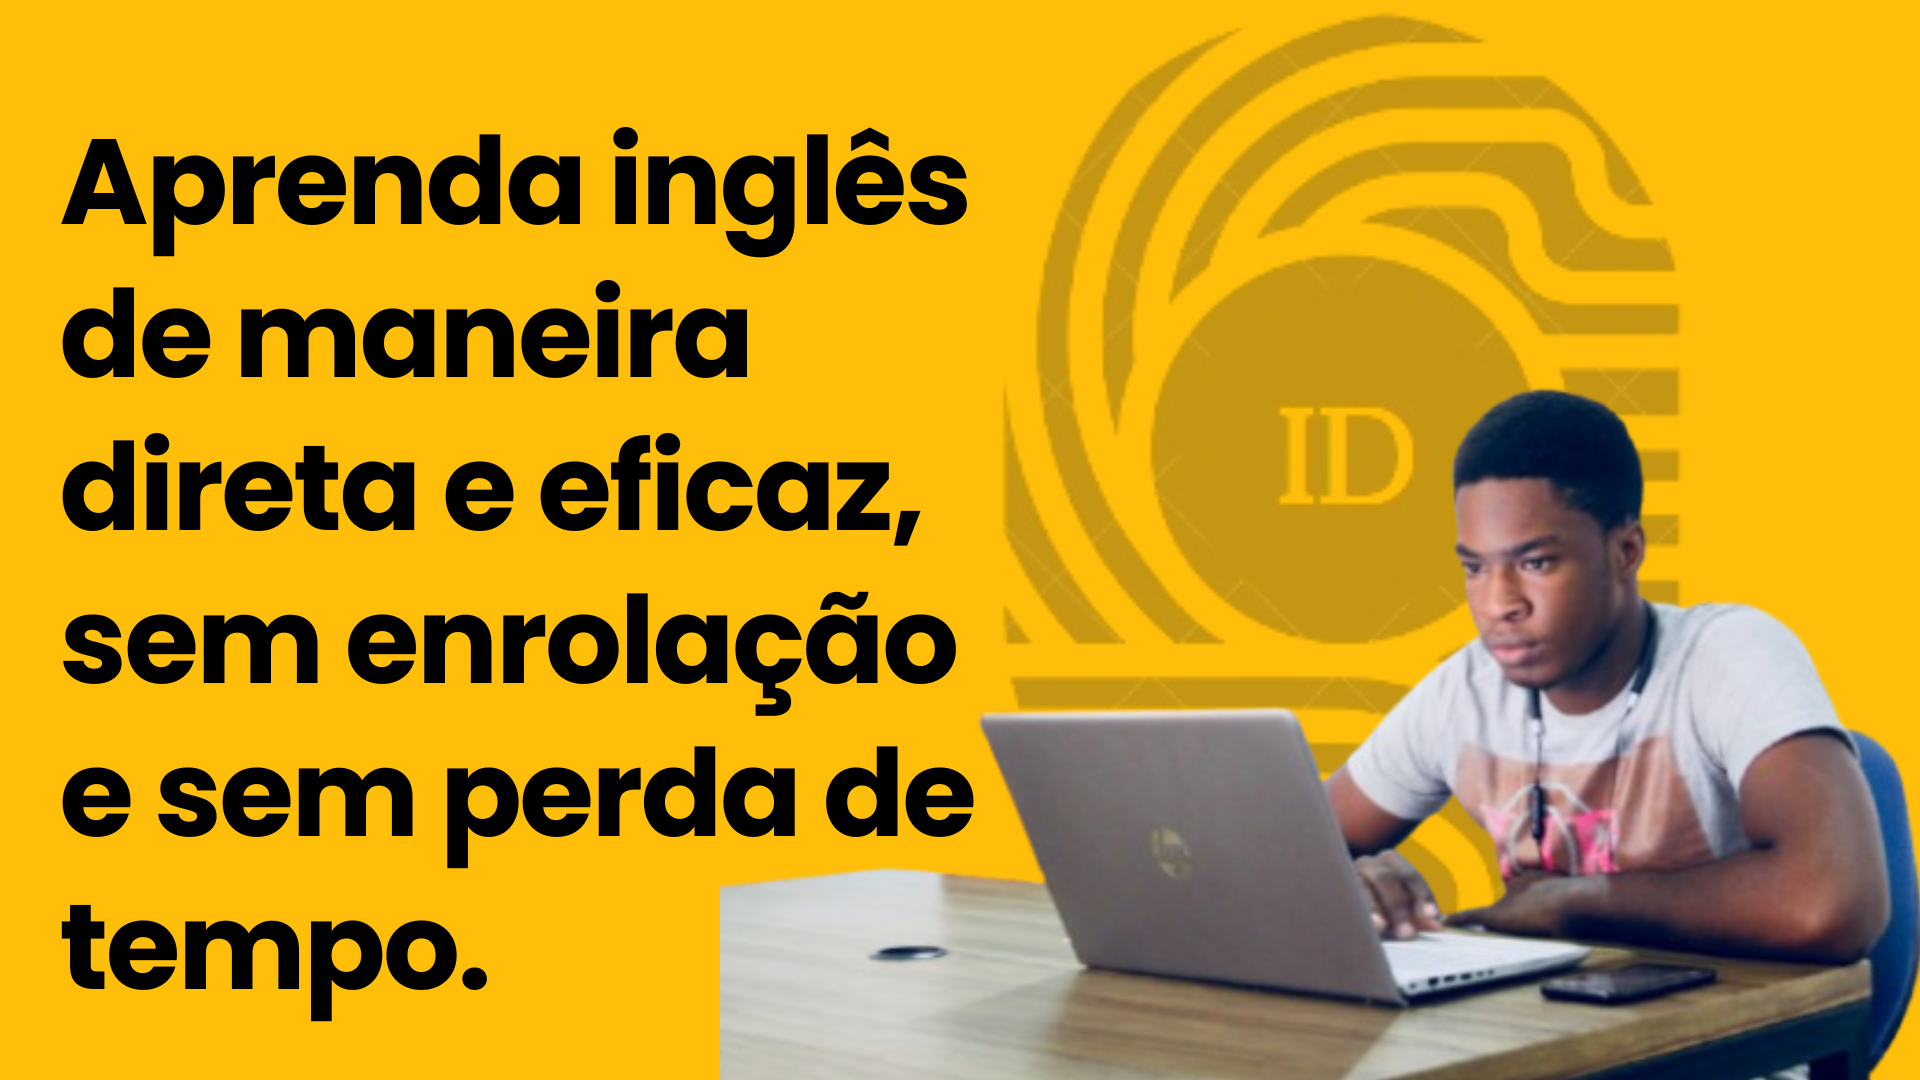
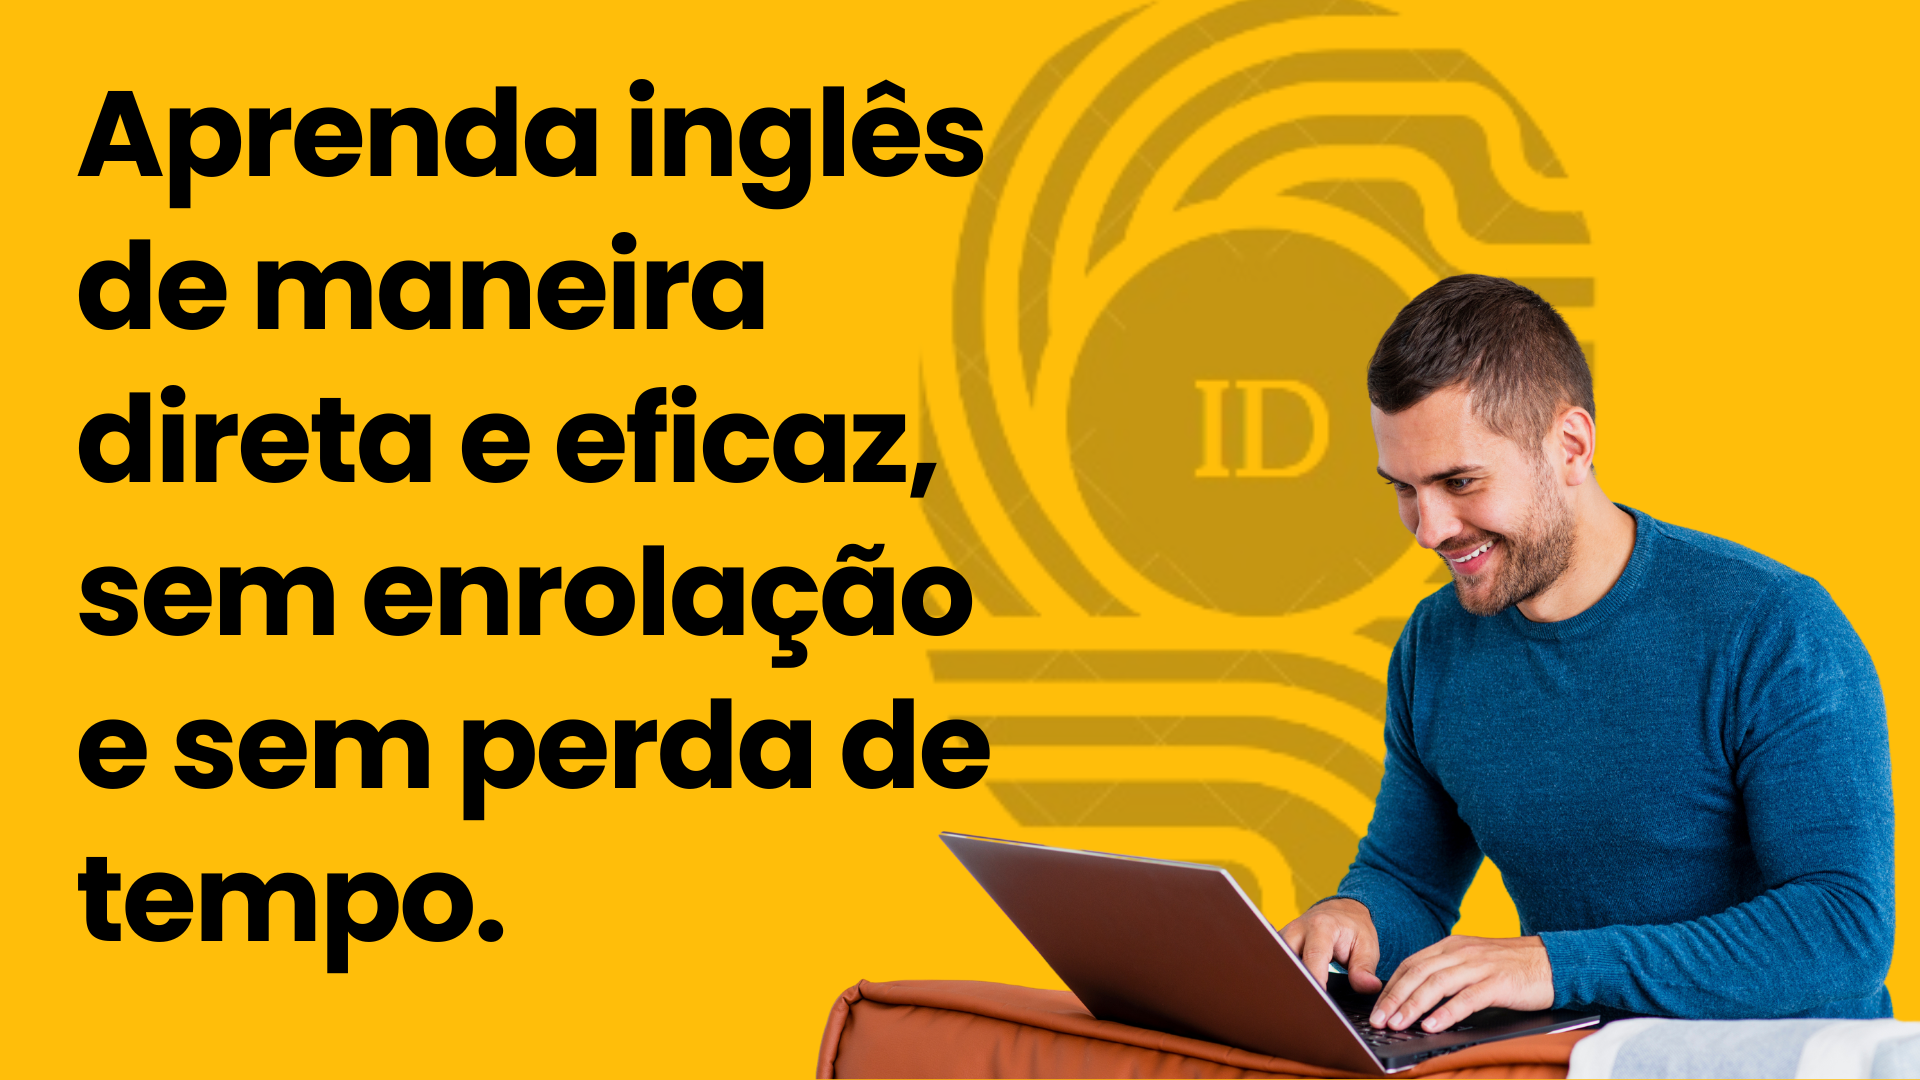
Update MVP

diff --git a/src/assets/css/style.css b/src/assets/css/style.css
@@ -17,19 +17,32 @@ body {
 /* IMAGEM HEADER */
 
 .hero-section {
-    height: 80vh;
-    background-image: linear-gradient(rgba(0, 0, 0, 0.5), rgba(0, 0, 0, 0.5)), url('../img/hero.jpg');
-    background-size: cover;
-    background-position: center;
+    height: 90vh;
+    width: 100%;
     display: flex;
-    align-items: center;
     justify-content: center;
-    text-align: center;
-    color: white;
+    align-items: center;
+    overflow: hidden;
+    position: relative;
+    background-color: #ffbe0a;
 }
 
 .hero-content {
-    padding: 20px;
+    width: 100%;
+    height: 100%;
+    display: flex;
+    justify-content: center;
+    align-items: center;
+    padding: 0;
+}
+
+.hero-content img {
+    max-width: 100%;
+    max-height: 90vh;
+    width: auto;
+    height: auto;
+    object-fit: fill;
+    object-position: center;
 }
 
 .hero-content h1 {
@@ -42,12 +55,24 @@ body {
 }
 
 @media (max-width: 768px) {
+    .hero-section {
+        height: auto;
+        min-height: 70vh;
+        padding: 20px 0;
+        object-fit: cover;
+    } 
+
     .hero-content h1 {
         font-size: 2.5rem;
     }
     
     .hero-content p {
         font-size: 1.2rem;
+    }
+
+    .hero-content img {
+        max-height: 70vh;
+        width: 100%;
     }
 }
 
@@ -100,15 +125,15 @@ body {
 .nav-links {
     display: flex;
     gap: 2rem;
+    align-items: center;
+    justify-content: center;
     list-style: none;
 }
 
 .nav-links a {
     color: #fff;
     text-decoration: none;
-    display: flex;
-    align-items: center;
-    gap: 0.5rem;
+    padding: 0.5rem 1rem;
     transition: color 0.3s ease;
 }
 
@@ -161,11 +186,9 @@ body {
         position: absolute;
         top: 100%;
         left: 0;
-        right: 0;
+        width: 100%;
         background-color: #101820;
-        padding: 1rem;
-        flex-direction: column;
-        text-align: center;
+        padding: 1rem 0;
     }
 
     .nav-links.active {
@@ -174,6 +197,10 @@ body {
 
     .nav-links li {
         margin: 1rem 0;
+    }
+
+    .nav-container {
+        justify-content: space-between;
     }
 }
 /* FIM HEADER */
@@ -359,8 +386,113 @@ form button:hover {
 }
 
 .form-section {
-    padding: 60px 20px;
     background-color: #fff;
+    padding: 60px 20px;
+}
+
+.landing-form {
+    max-width: 500px;
+    margin: 0 auto;
+    padding: 40px;
+    background: #fff;
+    border-radius: 15px;
+    box-shadow: 0 10px 30px rgba(0,0,0,0.1);
+}
+
+.form-header {
+    text-align: center;
+    margin-bottom: 30px;
+}
+
+.form-icon {
+    font-size: 40px;
+    color: #ffbe0a;
+    margin-bottom: 15px;
+}
+
+.landing-form h2 {
+    color: #101820;
+    font-size: 28px;
+    margin-bottom: 10px;
+}
+
+.form-subtitle {
+    color: #666;
+    font-size: 16px;
+    margin-bottom: 25px;
+}
+
+.form-group {
+    margin-bottom: 20px;
+}
+
+.landing-form label {
+    display: block;
+    margin-bottom: 8px;
+    color: #101820;
+    font-weight: bold;
+}
+
+.landing-form input {
+    width: 100%;
+    padding: 12px 15px;
+    border: 2px solid #eee;
+    border-radius: 8px;
+    font-size: 16px;
+    transition: all 0.3s ease;
+}
+
+.landing-form input:focus {
+    border-color: #ffbe0a;
+    outline: none;
+    box-shadow: 0 0 0 3px rgba(255,190,10,0.2);
+}
+
+@keyframes pulse {
+    0% {
+        transform: scale(1);
+        box-shadow: 0 0 0 0 rgba(255, 190, 10, 0.4);
+    }
+    70% {
+        transform: scale(1.02);
+        box-shadow: 0 0 0 10px rgba(255, 190, 10, 0);
+    }
+    100% {
+        transform: scale(1);
+        box-shadow: 0 0 0 0 rgba(255, 190, 10, 0);
+    }
+}
+
+.landing-form button {
+    width: 100%;
+    padding: 15px;
+    background: #ffbe0a;
+    color: #101820;
+    border: none;
+    border-radius: 8px;
+    font-size: 16px;
+    font-weight: bold;
+    cursor: pointer;
+    transition: all 0.3s ease;
+    display: flex;
+    align-items: center;
+    justify-content: center;
+    gap: 10px;
+    position: relative;
+    overflow: hidden;
+    animation: pulse 2s infinite;
+}
+
+.landing-form button:hover {
+    background: #101820;
+    color: #ffbe0a;
+    transform: translateY(-3px) scale(1.02);
+    box-shadow: 0 7px 20px rgba(255, 190, 10, 0.3);
+}
+
+.landing-form button:active {
+    transform: translateY(-1px);
+    box-shadow: 0 5px 15px rgba(255, 190, 10, 0.2);
 }
 
 .landing-form {
@@ -408,7 +540,8 @@ form button:hover {
 }
 
 .landing-form button:hover {
-    background-color: #e5aa09;
+    background-color: #ffd35c;
+    color: #101820;
 }
 
 #features {
@@ -594,5 +727,22 @@ footer {
     .landing-form button {
         padding: 12px;
         font-size: 14px;
+    }
+}
+
+.container {
+    max-width: 1200px;
+    margin: 0 auto;
+    padding: 0 20px;
+    width: 100%;
+}
+
+section {
+    padding: 80px 0;
+}
+
+@media (max-width: 768px) {
+    section {
+        padding: 40px 0;
     }
 }

diff --git a/src/index.html b/src/index.html
@@ -25,10 +25,18 @@
         </nav>
     </header> -->
 
-    <div class="hero-section">
+    <div class="hero-section" id="home">
         <div class="hero-content">
-            <h1>Aprenda Inglês de Forma Eficiente</h1>
-            <p>Método personalizado para suas necessidades</p>
+            <picture>
+                <source 
+                    media="(max-width: 768px)" 
+                    srcset="assets/img/header-cover-mobile.png"
+                >
+                <img 
+                    src="assets/img/header-cover.png" 
+                    alt="header cover"
+                >
+            </picture>
         </div>
     </div>
 
@@ -44,13 +52,12 @@
                 <li><a href="#home"><i class="fas fa-home"></i> Início</a></li>
                 <li><a href="#who-we-are"><i class="fas fa-users"></i> Quem Somos</a></li>
                 <li><a href="#features"><i class="fas fa-star"></i> Diferenciais</a></li>
-                <li><a href="#ebook"><i class="fas fa-book"></i> E-book</a></li>
-                <li><a href="#contact" class="cta-button"><i class="fas fa-envelope"></i> Contato</a></li>
+                <li><a href="#form-section" class="cta-button"><i class="fas fa-envelope"></i> Contato</a></li>
             </ul>
         </nav>
     </header>
 
-<section class="who-we-are">
+<section class="who-we-are" id="who-we-are">
     <div class="container">
         <h2>Quem Somos?</h2>
         <div class="who-we-are-grid">
@@ -133,7 +140,7 @@
             <div class="container">
                 <div class="ebook-grid">
                     <div class="ebook-image">
-                        <img src="./assets/img/ebook-cover.avif" alt="eBook Capa">
+                        <img src="./assets/img/ebook-cover.avif" alt="eBook Capa" style="border-radius:  5px;">
                     </div>
                     <div class="ebook-content">
                         <h2>🚀 Baixe GRÁTIS o eBook</h2>
@@ -149,21 +156,31 @@
             </div>
         </section>
         
-        <section class="form-section">
+        <section class="form-section" id="form-section">
             <form class="landing-form">
-                <h2>Entre em Contato</h2>
-                <label for="name">Nome:</label>
-                <input type="text" id="name" name="name" required>
-        
-                <label for="email">Email:</label>
-                <input type="email" id="email" name="email" required>
-        
-                <label for="whatsapp">WhatsApp:</label>
-                <input type="tel" id="whatsapp" name="whatsapp" required>
-        
-                <button type="submit">Enviar</button>
+                <div class="form-header">
+                    <i class="fas fa-gift form-icon"></i>
+                    <h2>Ganhe um E-book Grátis!</h2>
+                    <p class="form-subtitle">Preencha o formulário e receba seu e-book "10 Dicas para Aprender Inglês" gratuitamente</p>
+                </div>
+                
+                <div class="form-group">
+                    <label for="name">Nome:</label>
+                    <input type="text" id="name" name="name" required placeholder="Seu nome completo">
+                </div>
+
+                <div class="form-group">
+                    <label for="email">Email:</label>
+                    <input type="email" id="email" name="email" required placeholder="seu@email.com">
+                </div>
+
+                <div class="form-group">
+                    <label for="whatsapp">WhatsApp:</label>
+                    <input type="tel" id="whatsapp" name="whatsapp" required placeholder="(00) 00000-0000">
+                </div>
+
+                <button type="submit">QUERO MEU E-BOOK GRÁTIS <i class="fas fa-arrow-right"></i></button>
             </form>
-            <script src="./assets/js/main.js"></script>
         </section>
     </main>
     

diff --git a/src/assets/js/main.js b/src/assets/js/main.js
@@ -49,21 +49,21 @@ document.addEventListener('DOMContentLoaded', function() {
             window.location.href = '/download-ebook.html';
         }
     });
-});
 
-
-
-
-// Adicionar smooth scroll para os links de navegação
-document.querySelectorAll('a[href^="#"]').forEach(anchor => {
-    anchor.addEventListener('click', function (e) {
-        e.preventDefault();
-        document.querySelector(this.getAttribute('href')).scrollIntoView({
-            behavior: 'smooth'
+    // Smooth scroll
+    document.querySelectorAll('a[href^="#"]').forEach(anchor => {
+        anchor.addEventListener('click', function (e) {
+            e.preventDefault();
+            const target = document.querySelector(this.getAttribute('href'));
+            if (target) {
+                target.scrollIntoView({
+                    behavior: 'smooth',
+                    block: 'start'
+                });
+            }
         });
     });
 });
-
 
 document.addEventListener('DOMContentLoaded', function() {
     const menuToggle = document.querySelector('.menu-toggle');
